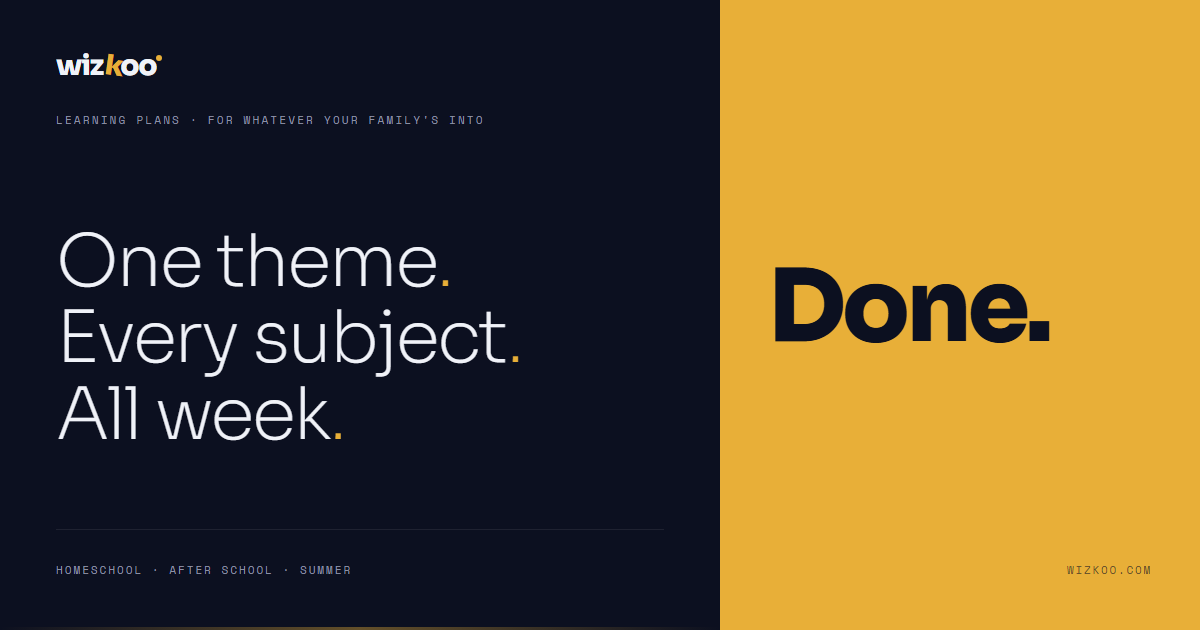
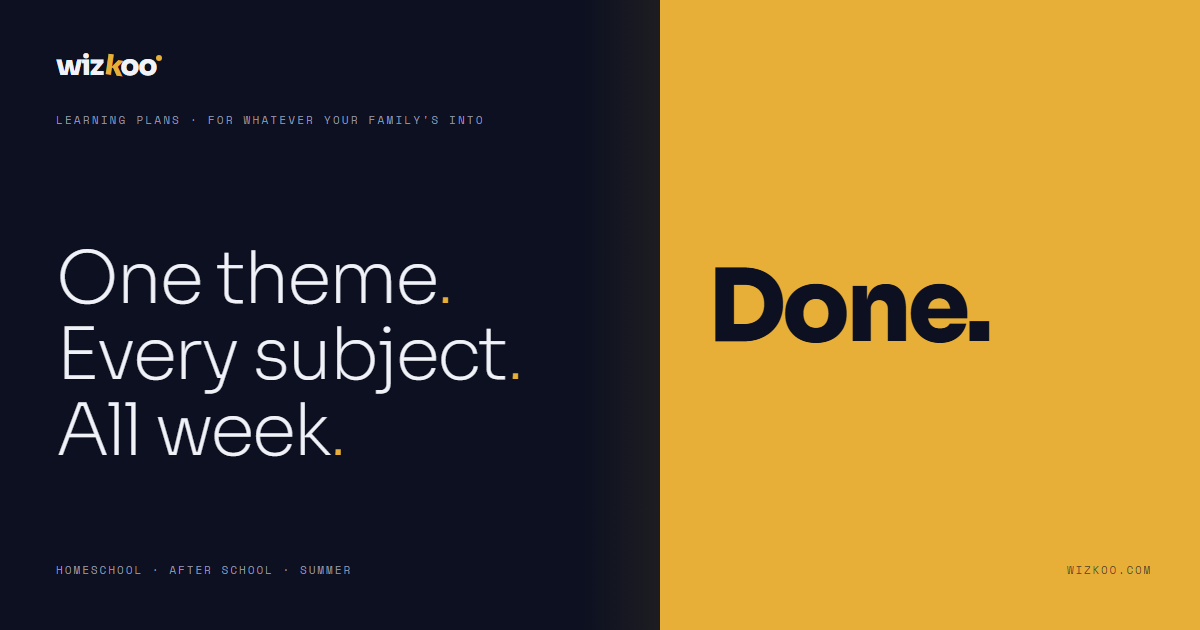
OG image refinements: remove rule line, widen saffron panel, add warm edge glow

Changed region(s): [[0.0617, 0.0, 0.8942, 1.0], [0.0308, 0.3619, 0.4317, 0.7238]]

diff --git a/scripts/generate-og.js b/scripts/generate-og.js
@@ -18,12 +18,21 @@ const HTML = `<!DOCTYPE html>
 
   /* ── LEFT PANEL ── */
   .left{
-    width:720px;height:630px;
+    width:660px;height:630px;
     background:#0C1020;
     padding:52px 56px;
     display:flex;flex-direction:column;
     justify-content:space-between;
     position:relative;
+  }
+  /* Warm saffron glow bleeding from the right edge onto the dark panel */
+  .left::after{
+    content:'';
+    position:absolute;
+    top:0;right:0;
+    width:80px;height:100%;
+    background:linear-gradient(90deg,transparent,rgba(232,175,56,0.08));
+    pointer-events:none;
   }
 
   /* Wordmark */
@@ -77,22 +86,11 @@ const HTML = `<!DOCTYPE html>
     letter-spacing:0.18em;
     text-transform:uppercase;
     color:#8C91A5;
-    padding-top:32px;
-    border-top:1px solid rgba(255,255,255,0.08);
-  }
-
-  /* Saffron rule at bottom of left panel */
-  .saffron-line{
-    position:absolute;
-    bottom:0;left:0;right:0;
-    height:3px;
-    background:linear-gradient(90deg,transparent,#E8AF38,transparent);
-    opacity:0.4;
   }
 
   /* ── RIGHT PANEL ── */
   .right{
-    width:480px;height:630px;
+    width:540px;height:630px;
     background:#E8AF38;
     padding:52px 48px;
     display:flex;flex-direction:column;
@@ -141,8 +139,6 @@ const HTML = `<!DOCTYPE html>
 
     <!-- Identity tags -->
     <div class="tags">Homeschool · After School · Summer</div>
-
-    <div class="saffron-line"></div>
   </div>
 
   <div class="right">
